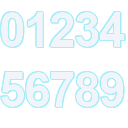
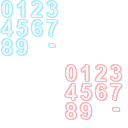
fix: align CX Neon lag number atlas

Changed region(s): [[0.0, 0.5, 1.0, 0.9375], [0.0, 0.0, 1.0, 0.4375]]

diff --git a/tools/skingen/test_skingen.py b/tools/skingen/test_skingen.py
@@ -40,6 +40,79 @@ class ScanTexturePathTests(unittest.TestCase):
                          "\n  ".join(missing))
 
 
+class LagAtlasTests(unittest.TestCase):
+    ROOT = os.path.abspath(os.path.join(os.path.dirname(__file__), "..", ".."))
+    ATLAS_PATHS = (
+        os.path.join(ROOT, "tools", "skingen", "source", "7_lag numbers.png"),
+        os.path.join(ROOT, "System", "CXNeon", "Graphics", "7_lag numbers.png"),
+    )
+    GLYPH_WIDTH = 15
+    GLYPH_HEIGHT = 19
+    COLUMNS_PER_BANK = 4
+    SLOTS_PER_BANK = 12
+    BANK_ORIGINS = ((0, 0), (64, 64))
+
+    @classmethod
+    def _cell_pixels(cls, image, origin, slot):
+        bank_x, bank_y = origin
+        x = bank_x + (slot % cls.COLUMNS_PER_BANK) * cls.GLYPH_WIDTH
+        y = bank_y + (slot // cls.COLUMNS_PER_BANK) * cls.GLYPH_HEIGHT
+        return [
+            image.getpixel((x + dx, y + dy))
+            for dy in range(cls.GLYPH_HEIGHT)
+            for dx in range(cls.GLYPH_WIDTH)
+        ]
+
+    @classmethod
+    def _bank_pixels(cls, image, origin):
+        return [
+            pixel
+            for slot in range(cls.SLOTS_PER_BANK)
+            for pixel in cls._cell_pixels(image, origin, slot)
+        ]
+
+    def test_cx_neon_lag_atlas_matches_two_bank_contract(self):
+        self.assertEqual(
+            (self.BANK_ORIGINS[0][0] + self.COLUMNS_PER_BANK * self.GLYPH_WIDTH,
+             self.BANK_ORIGINS[0][1] + 3 * self.GLYPH_HEIGHT),
+            (60, 57),
+        )
+        self.assertEqual(
+            (self.BANK_ORIGINS[1][0] + self.COLUMNS_PER_BANK * self.GLYPH_WIDTH,
+             self.BANK_ORIGINS[1][1] + 3 * self.GLYPH_HEIGHT),
+            (124, 121),
+        )
+
+        for path in self.ATLAS_PATHS:
+            with self.subTest(path=path), Image.open(path) as image:
+                image.load()
+                self.assertEqual(image.size, (128, 128))
+
+                for origin in self.BANK_ORIGINS:
+                    bank_pixels = self._bank_pixels(image, origin)
+                    self.assertTrue(any(pixel[3] > 0 for pixel in bank_pixels))
+                    for slot in tuple(range(10)) + (11,):
+                        self.assertTrue(
+                            any(pixel[3] > 0 for pixel in self._cell_pixels(image, origin, slot)),
+                            "slot %d at %s is empty" % (slot, origin),
+                        )
+                    self.assertFalse(
+                        any(pixel[3] > 0 for pixel in self._cell_pixels(image, origin, 10)),
+                        "slot 10 at %s must remain unused" % (origin,),
+                    )
+
+                fast_pixels = self._bank_pixels(image, self.BANK_ORIGINS[0])
+                slow_pixels = self._bank_pixels(image, self.BANK_ORIGINS[1])
+                self.assertTrue(
+                    any(pixel[:3] == generate_source.CYAN[:3] for pixel in fast_pixels),
+                    "FAST bank must visibly use the cyan palette",
+                )
+                self.assertTrue(
+                    any(pixel[:3] == generate_source.DANGER[:3] for pixel in slow_pixels),
+                    "SLOW bank must visibly use the danger palette",
+                )
+
+
 class ValidateTests(unittest.TestCase):
     def setUp(self):
         self.tmp = tempfile.TemporaryDirectory()

diff --git a/tools/skingen/generate_source.py b/tools/skingen/generate_source.py
@@ -687,15 +687,20 @@ def build_all() -> Dict[str, str]:
     ln_full.paste(ln, (0, 0), ln)
     put("Graphics/7_LevelNumber.png", ln_full)
 
-    put("Graphics/7_lag numbers.png",
-        digit_sheet([(str(i), 12) for i in range(10)] + [(".", 8)], 128, 48))
-    # force size
+    # Lag numbers: two 4x3 banks of 15x19 glyph cells. Slot 10 is reserved;
+    # slot 11 holds the minus sign.
     lag_n = new_rgba(128, 128)
-    font = _font(48, bold=True)
     ld = ImageDraw.Draw(lag_n)
-    for i in range(10):
-        draw_text_centered(ld, ((i % 5) * 25, (i // 5) * 60, (i % 5) * 25 + 25, (i // 5) * 60 + 60),
-                           str(i), font, fill=TEXT, glow_color=(*CYAN[:3], 100))
+    font = _font(22, bold=True)
+    for bank_x, bank_y, color in ((0, 0, CYAN), (64, 64, DANGER)):
+        for slot in range(12):
+            if slot == 10:
+                continue
+            glyph = str(slot) if slot < 10 else "-"
+            x = bank_x + (slot % 4) * 15
+            y = bank_y + (slot // 4) * 19
+            draw_text_centered(ld, (x, y, x + 15, y + 19), glyph, font,
+                               fill=TEXT, glow_color=(*color[:3], 100))
     put("Graphics/7_lag numbers.png", lag_n)
 
     lag = new_rgba(200, 40)
